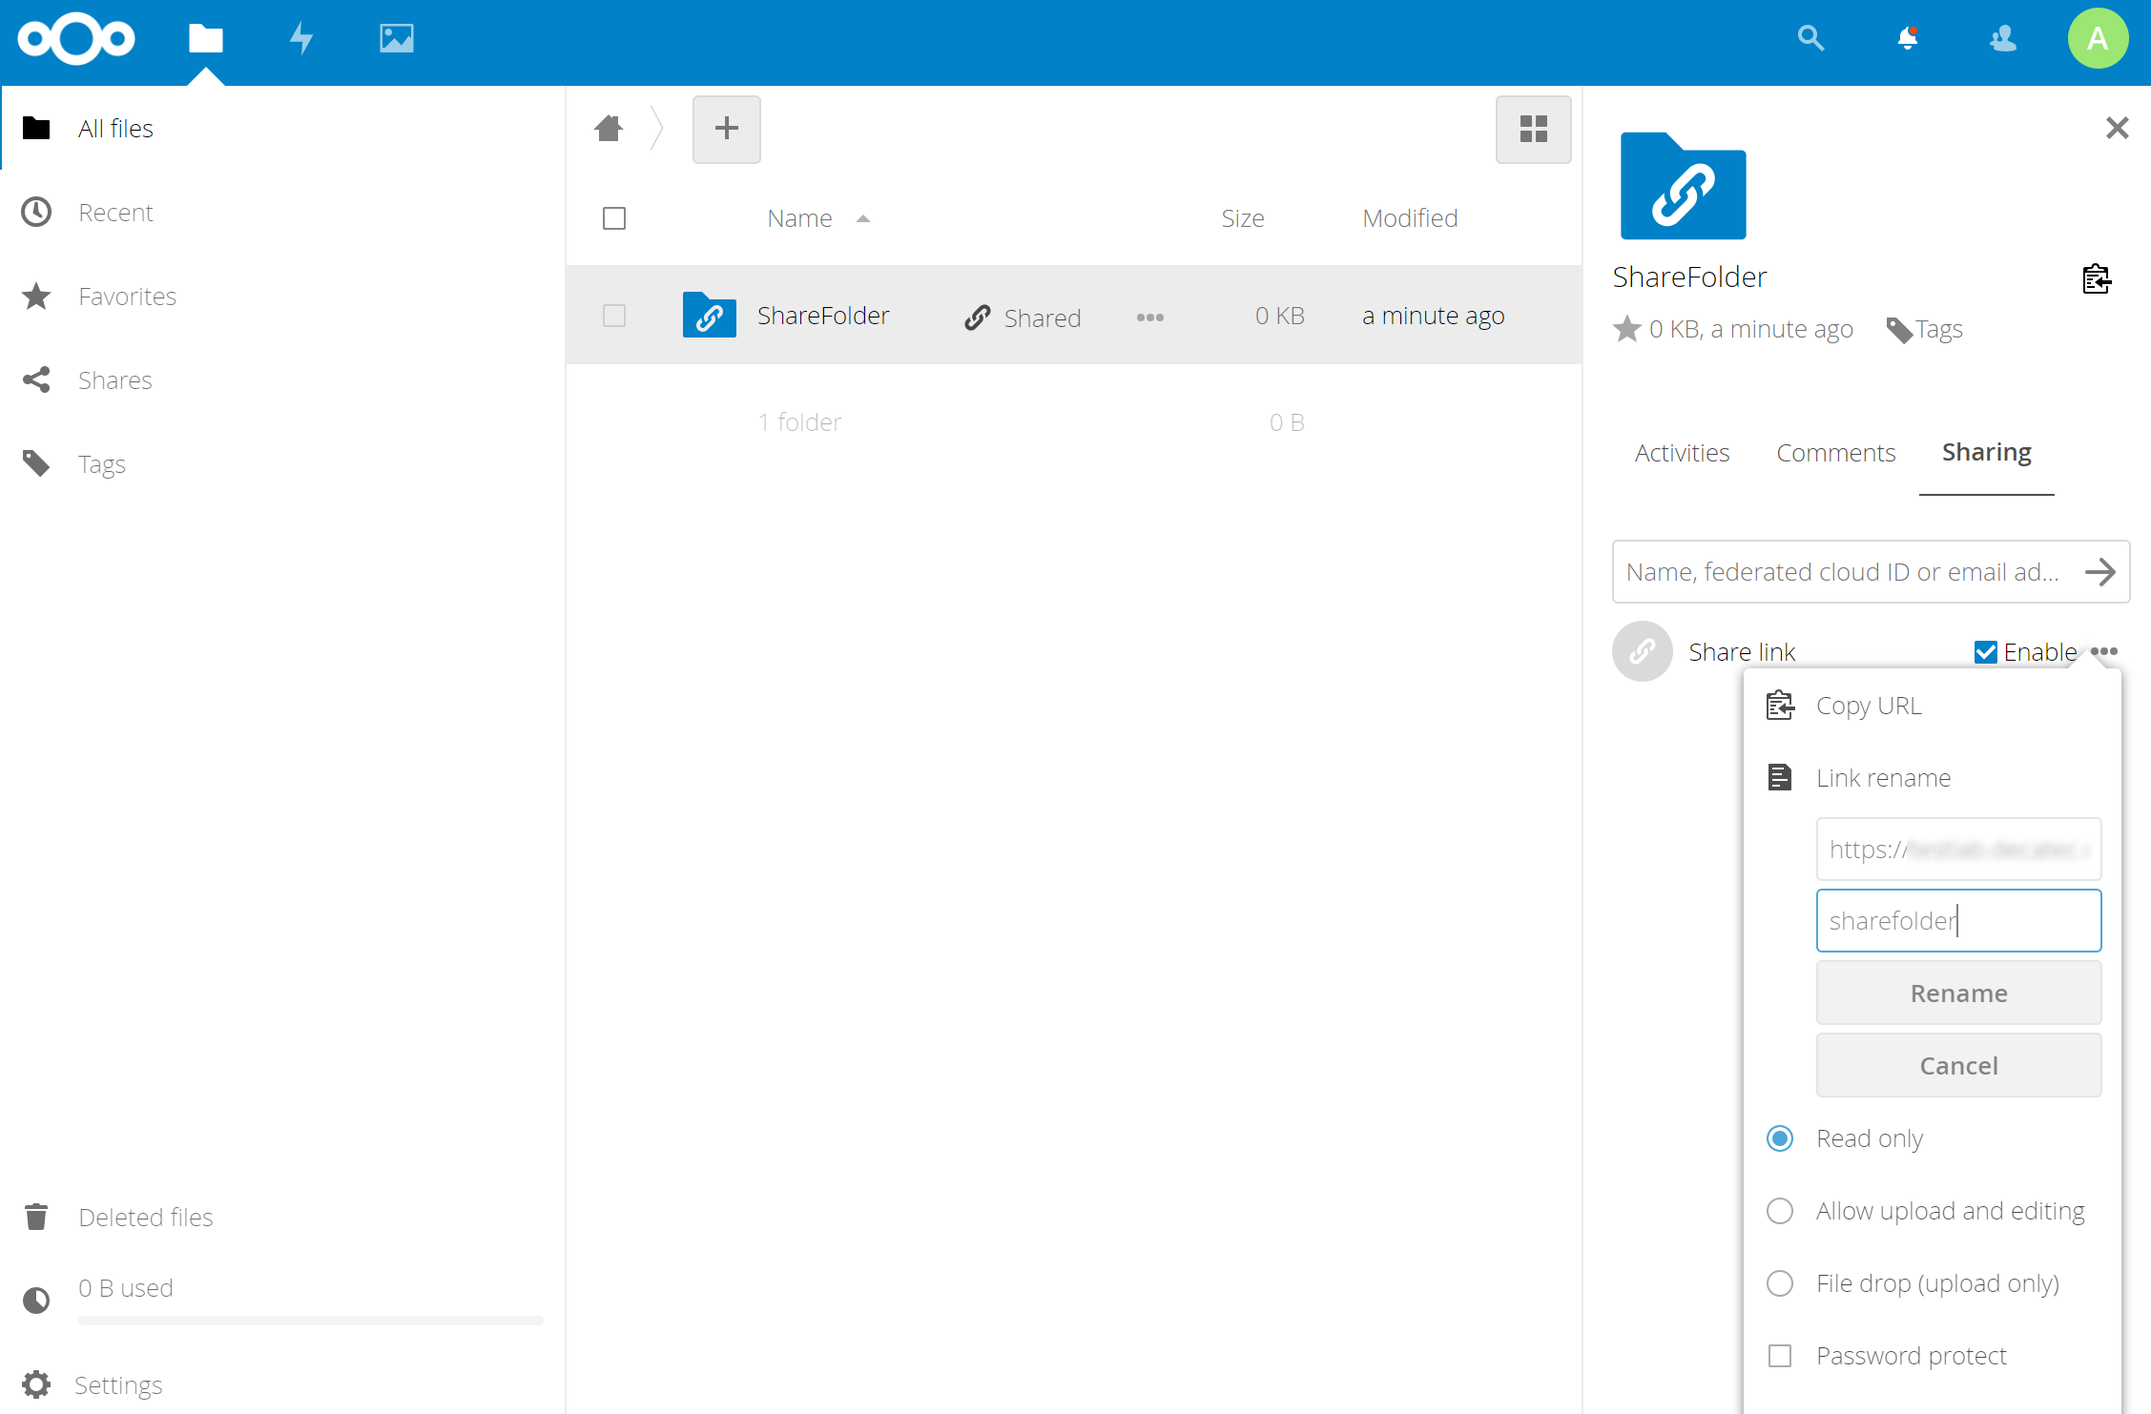
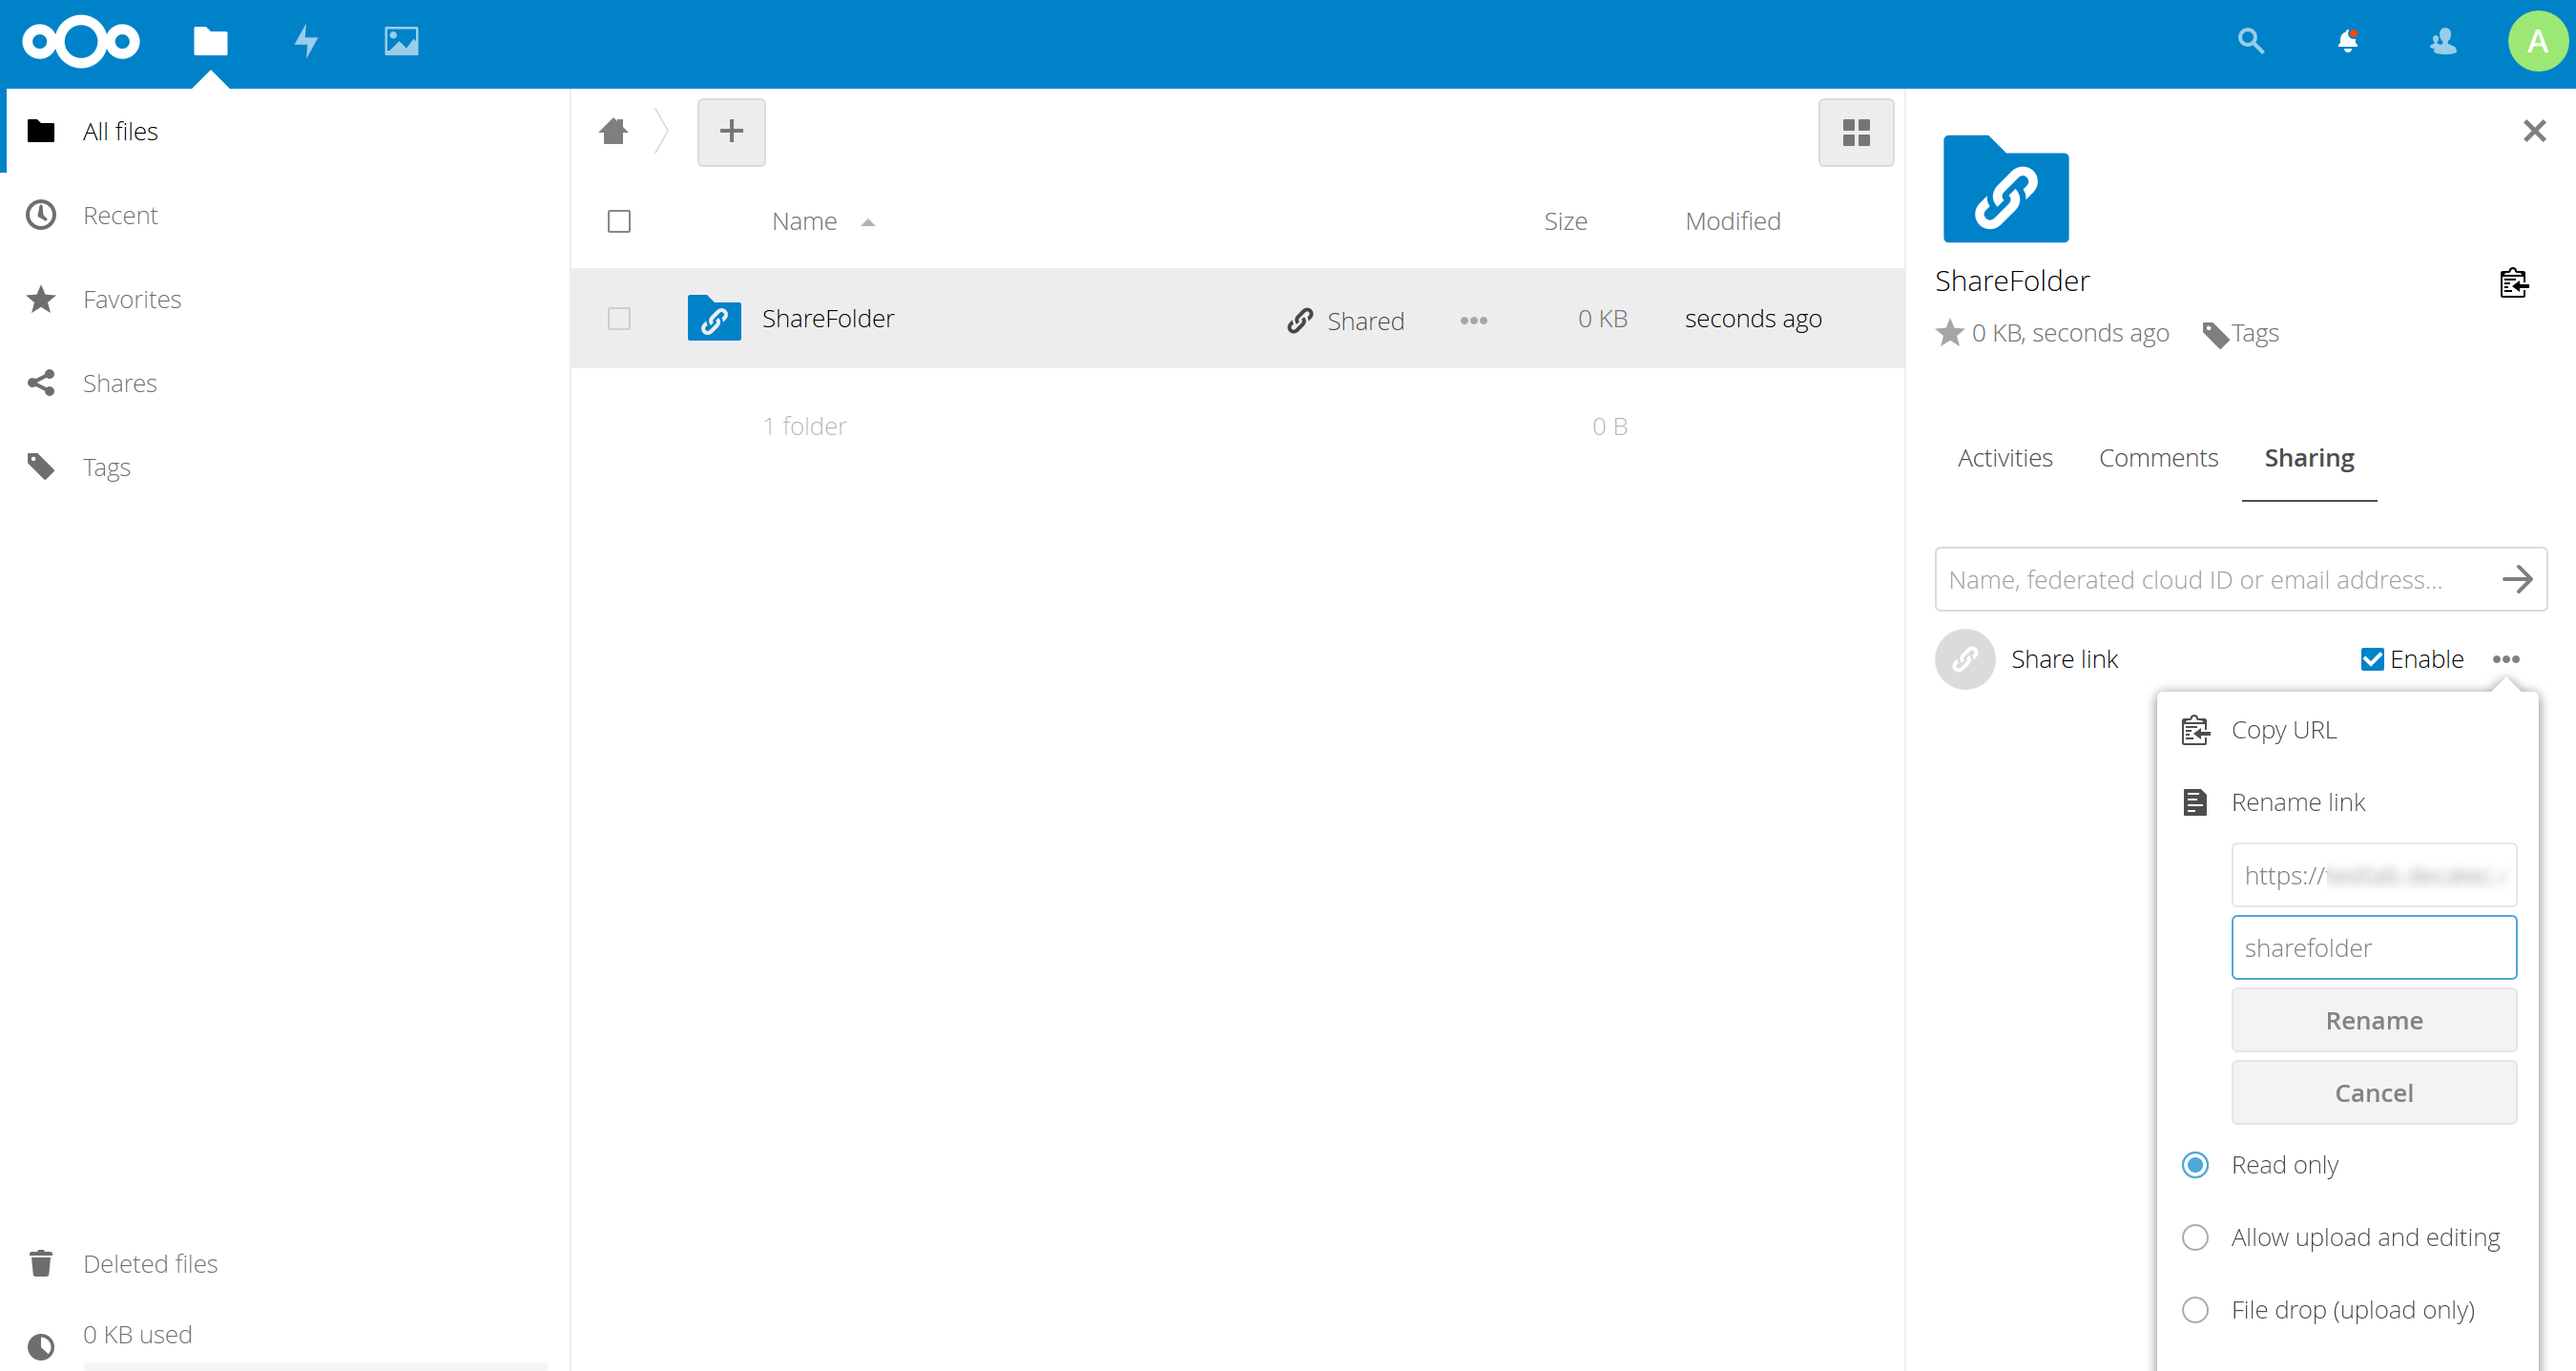
Localization

diff --git a/js/sharerenamer.js b/js/sharerenamer.js
@@ -21,7 +21,7 @@ ShareRenamer.prototype = {
 		});
 
 		request.fail(function( jqXHR, textStatus ) {
-			OC.Notification.show(t('core', 'Error') + ': ' + textStatus, { type: 'error' });
+			OC.Notification.show(t('sharerenamer', 'Error') + ': ' + textStatus, { type: 'error' });
 		});
 		
 		return result;
@@ -43,7 +43,7 @@ ShareRenamerFiles.hijackShare = function () {
 		'<li>' +
 			'<a href="#" id="startShareRenamer" class="menuitem">' +
 				'<span class="icon icon-edit"></span>' + 
-				'<span>' + t('core', 'Link') + ' ' + t('core', 'Rename').toLowerCase() + '</span>' + 
+				'<span>' + t('sharerenamer', 'Rename link') + '</span>' + 
 			'</a>' +
 		'</li>';
 		$clipboardButtonMenuItem.after($shareRenamerButtonMenuItem);
@@ -61,12 +61,12 @@ ShareRenamerFiles.hijackShare = function () {
 			'</li>' +
 			'<li id="shareRenamerSaveMenuItem">' +
 				'<span class="menuitem">' +
-					'<input id="ShareRenamerSave" type="button" class="hidden button" value="' + t('core', 'Rename') + '" />' +
+					'<input id="ShareRenamerSave" type="button" class="hidden button" value="' + t('sharerenamer', 'Rename') + '" />' +
 				'</span>' +
 			'</li>' +
 			'<li id="shareRenamerCancelMenuItem">' +
 				'<span class="menuitem">' +
-					'<input id="ShareRenamerCancel" type="button" class="hidden button" value="' + t('core', 'Cancel') + '" />' +
+					'<input id="ShareRenamerCancel" type="button" class="hidden button" value="' + t('sharerenamer', 'Cancel') + '" />' +
 				'</span>' +
 			'</li>';
 
@@ -118,7 +118,7 @@ ShareRenamerFiles.hijackShare = function () {
 				$(this).tooltip({
 					placement: 'top',
 					trigger: 'manual',
-					title: t('core', 'Only %s is available.').replace('%s', ' a-z, A-Z, 0-9, -, _ ')
+					title: t('sharerenamer', 'Only the following characters are allowed for links: %s').replace('%s', 'a-z, A-Z, 0-9, -, _')
 				});
 				$(this).tooltip('show');
 			} 

diff --git a/CHANGELOG.md b/CHANGELOG.md
@@ -3,6 +3,7 @@
 ## 2.0.0
 ### Added
 - When editing a link, the renaming can be performed with Enter. The operation can be cancelled with ESC.
+- Localization support.
 
 ### Changed
 - Nextcloud 14 compatibility.
